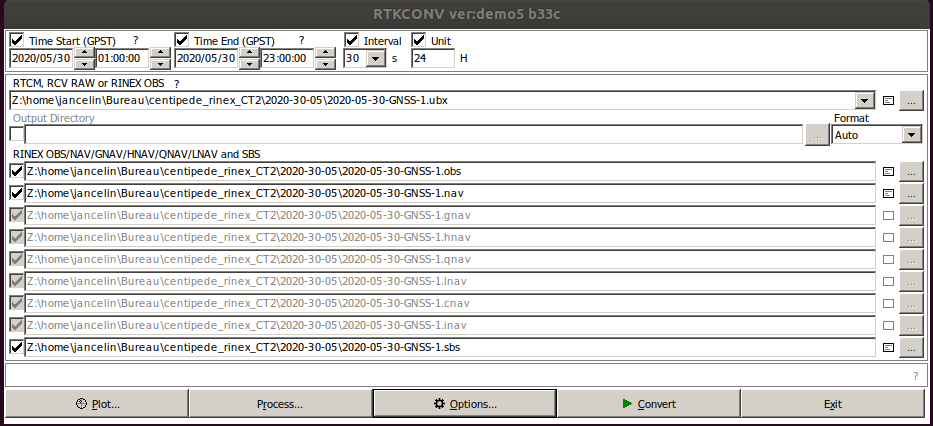
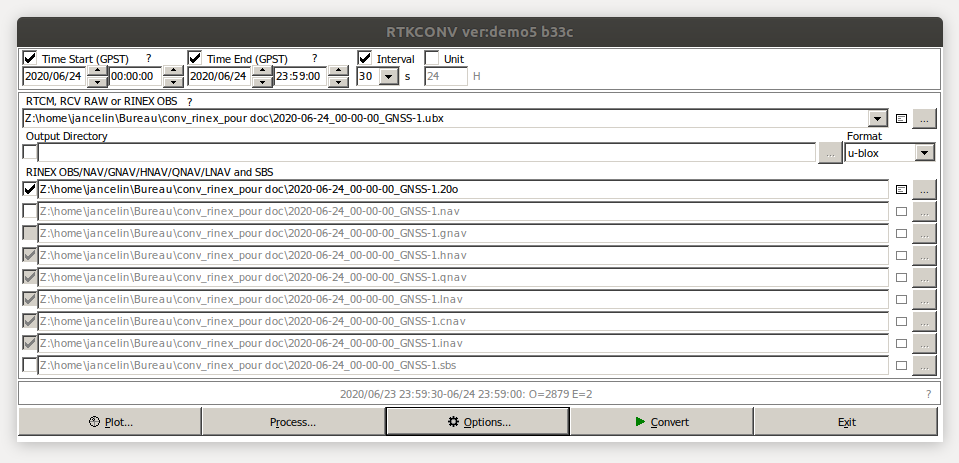
passage calcul positionnement IGN

diff --git a/docs/base/positionnement.md b/docs/base/positionnement.md
@@ -9,210 +9,78 @@ nav_order: 4
 
 Nous allons déterminer la position de la base le plus précisément possible.
 
-La procédure pour calculer la position va se décomposer en 5 étapes:
-
-1. [Télécharger les données de votre base RTK](https://jancelin.github.io/docs-centipedeRTK/docs/base/positionnement.html#1-t%C3%A9l%C3%A9charger-les-donn%C3%A9es-de-votre-base-rtk)
-2. [Télécharger les données de référence de la station du RGP la plus proche de sa base](https://jancelin.github.io/docs-centipedeRTK/docs/base/positionnement.html#2-t%C3%A9l%C3%A9charger-les-donn%C3%A9es-du-rgp)
-3. [Dézipper un .zip des logs de votre base  et le  convertir le .ubx en RINEX avec ```rtkconv```](https://jancelin.github.io/docs-centipedeRTK/docs/base/positionnement.html#3-convertir-le-fichier-ubx-en-rinex)
-4. [Utiliser ```rtkpost``` (comparaison du RINEX RGP et de son RINEX) pour récupérer un nuage de points corrigés  (.pos) en sortie](https://jancelin.github.io/docs-centipedeRTK/docs/base/positionnement.html#4-post-traitement-fabrication-du-fichier-pos)
-5. [Utiliser ```Qgis``` pour  filtrer les données du .pos les plus stables et calculer la mediane des points restants afin de déterminer la position précise de la base RTK](https://jancelin.github.io/docs-centipedeRTK/docs/base/positionnement.html#5-filtrer-les-donn%C3%A9es-et-calculer-la-position-mediane)
-
 Votre base va servir de référentiel pour vous mais aussi pour toute personne se trouvant dans sa zone d'action. Il est primordial que sa position soit juste et très précise afin de pourvoir tous travailler sur un même référentiel géographique.
-
-Il est conseillé de refaire ce calcul sur plusieurs jour afin de vérifier que la position est bien bonne.
-
-Il est également indispensable de refaire ce calcul tout les 6 mois afin de vérifier la position de la base.
 
 ### 1. Télécharger les données de votre base RTK
 
-* Se rendre dans l'onglet **logs** de votre base RTK et télécharger le dernier .zip
+* Créer un dossier **RINEX** sur votre PC 
+* Se rendre dans l'onglet **logs** de votre base RTK et télécharger le dernier **.zip**
+* Décompresser le **.zip** dans le dossier **RINEX**
+* C'est le fichier **AAAA-MM-JJ_00-00-00_GNSS-1.ubx** (environ 400 Mo) qui va nous servir pour le calcul de la position
 
-### 2. Télécharger les données du RGP
-
-* Aller sur le [site IGN](http://rgp.ign.fr/DONNEES/diffusion){:target="_blank"}
-* Zoomer large sur votre zone (50km)
-* Sélectionner TU (Temps Universel)
-* Changer la date de début et de fin en fonction du nom de votre fichier téléchargé précédemment, et changer l'heure ```0 à 24h```
-* Sélectionner GLONASS en plus de GPS (+ GALILEO si la base concernée le propose). Si un système sélectionné (ex : GALILEO) n'est pas disponible sur la base concernée, celle-ci disparaît de l'interface cartographique et n'est donc plus sélectionnable. Dans ce cas, décocher le système de positionnement.
-* Échantillonnage : 5 sec.
-* Version Rinex : 2.11
-* Il faut ensuite sélectionner la base souhaitée sur la carte à l'aide de l'outil de sélection puis l'ajouter au panier.
-* Télécharger l'archive au format ZIP une fois celle-ci disponible.
-
-![ign](https://jancelin.github.io/docs-centipedeRTK/assets/images/positionnement/ign.png)
-
-Vous pouvez ne récupérer que le **XXXXX.20o**
-
-> ex:**lroc3440.20o**
-
-> [Pour en savoir plus sur les formats UBX et Rinex](https://en.wikipedia.org/wiki/RINEX){:target="_blank"}
-
-### Conversion RINEX et Calcul de la correction
+### 2. Convertir le fichier .ubx en RINEX
 
 Télécharger cette version d'RTKLIB fournie par rtkexplorer: [RTKLIB Code: Windows executables](http://rtkexplorer.com/downloads/rtklib-code/){:target="_blank"}
 
-### 3. Convertir le fichier .ubx en RINEX
-
-
-* Créer un dossier et décompresser le .zip téléchargé dans votre base RTK.
 * Lancer ```rtkconv.exe```
 * Cocher Time start
-	* Renseigner la même date que le .zip
-	* changer le temps en **00:01:00**
+	* Renseigner la même date, au format AAAA/MM/JJ, que le fichier **AAAA-MM-JJ_00-00-00_GNSS-1.ubx**
+	* changer le temps en **00:00:00**
 * Cocher Time end
-	* Renseigner la même date que le .zip
+	* Renseigner la même date, au format AAAA/MM/JJ, que le fichier **AAAA-MM-JJ_00-00-00_GNSS-1.ubx**
 	* changer le temps en **23:59:00**
-* Cocher Interval: **5s**
-* Cocher Unit: **24h**
+* Cocher Interval: **30s**
 * Selectionner votre fichier **.ubx** issue de votre **.zip** dans **RTCM, RCV RAW or RINEX OBS**
-	* le logiciel va ecrire le chemin une serie de fichier (.obs, .nav,...) dans ce même dossier
-![ign](https://jancelin.github.io/docs-centipedeRTK/assets/images/positionnement/rinex1.png)
+* laisser cocher seulement la première ligne: AAAA-MM-JJ_00-00-00_GNSS-1**.obs**
+* Modifier l'extension du fichier en **.20o** (AAAA-MM-JJ_00-00-00_GNSS-1**.obs** > AAAA-MM-JJ_00-00-00_GNSS-1**.20o**)
+
+![rinex](https://jancelin.github.io/docs-centipedeRTK/assets/images/positionnement/rinex1.png)
+
 * Cliquer sur **Options**
 	* Choisir **Rinex ver 2.11**
-	* Cocher **Scan Obs Types**, **Half Cyc Corr**, **Iono Corr**, **Time Corr**, **Leap Sec**
-	* Cocher **GPS**, **GLO**, **GAL**, **BDS**
+	* Dans **Marker Name** rajouter le Nom (Mount Point) de votre Base RTK
+	* Cocher **GPS**
 	* Cocher toutes les **Observations types**
 	* Cocher **L1**, **L2/E5b**
-![ign](https://jancelin.github.io/docs-centipedeRTK/assets/images/positionnement/rinex2.png)
+	* Dans **Receiver Options** rajouter ```-TADJ=1```
+	* En option, si vous avez le modèle IGS de votre antenne et les informations de qualibrations il est fortement conseillé de les rajouter.
+
+![rinex](https://jancelin.github.io/docs-centipedeRTK/assets/images/positionnement/rinex2.png)
+
 * Cliquer sur **OK**
 * Cliquer su **Convert**
 
-Votre fichier va être convertis en fichiers RINEX
+Votre fichier **.ubx** va être convertis en fichiers RINEX
     
-### 4. Post traitement: fabrication du fichier .pos
+### 3. Post traitement IGN
 
-Cette étape permet de corriger les données brutes de votre base avec le référentiel du RGP afin d'obtenir un nuage de point (.pos) corrigé.
+Cette étape permet de corriger les données brutes de votre base RTK avec les stations de référence du [Réseau Géodésique Permanent](http://rgp.ign.fr/) afin d'obtenir une position corrigée.
 
-Deux méthodes sont proposées:
+* se rendre sur le site [calculs GNSS Réseau en ligne](http://rgp.ign.fr/SERVICES/calcul_online.php)
+* Importer votre fichier **AAAA-MM-JJ_00-00-00_GNSS-1.20o** dans **Pivot**
+* Garder les paramètres par défaut ( nombre maximum 8 et eloignement maximum 1000 km)
+* Renseigner son adresse mail pour recevoir le rapport
+* Actualiser le code avec les flêches bleu et Entrez les 4 lettres.
+* Cliquer sur envoyer la demande
 
-* La première avec les fichiers récupérés 24 h après la collecte des données (positionnement précis).
+Le rapport de positionnement est transmit après quelques minutes.
 
-* La deuxième avec ces mêmes fichiers + les fichiers de l'IGS récupérés 20 jours après la collecte des données donc un positionnement très précis (Solution combinée finale GNSS pour la solution orbitale combinée du système d'information sur la dynamique de la croûte terrestre (CDDIS)). 
+![ign](https://jancelin.github.io/docs-centipedeRTK/assets/images/positionnement/ign_reseau_en_ligne.png)
 
-####  Méthode à 24h
 
-```
-rtkpost.exe
-```
+### 4. Interprétation du rapport 
 
-* Renseigner le **Time Start** et le **Time End** : la date de votre fichier RINEX + l'heure de début **```00:01:00```**, pareil pour le end date + **```23:59:00```**. Cocher **Interval** et renseigner **5s**. **Unit** reste decoché
-* Charger le fichier *.obs* de votre base (Rover)s
-* Charger le fichier *.20o* de la base de référence IGN (Base Station)
-* Charger les fichiers *.nav* de votre base
-* Le fichier résultat aura une extension *.pos* c'est lui qui par traitement statistique donnera la position de la base RTK.
-* Cliquer sur __options__
-  - __Setting1__
-       - *Positionning Mode* : Static 
-       - *Fréquencies* : L1 + L2 
-       - *Elevation mask* : 15° par défaut
-       - *Ionosphere correction* : Broadcast  
-            > Correction de l'effet de l'ionosphère. Il est conseillé d'utiliser le mode Broadcast (modèle utilisé en temps réel et disponible dans le fichier de navigation) ou Dual-Frequancy (si des mesures ou plusieurs fréquences sont disponibles).
-            > Source : IGN cf. http://cours-fad-public.ensg.eu/mod/imscp/view.php?id=450 (Analyse GNSS sous RTKLIB, Fenêtre options)
-       - *Troposphere correction* : Saastamoinen 
-            > Correction de l'effet de la troposphère. Il est conseillé d'utiliser le mode Saastamoinen en positionnement utilisant des mesures de code ou en positionnement relatif avec de courtes lignes de base et de faibles dénivelés ; dans le cas contraire, on peut utiliser les modes Estimate ZTD ou Estimate ZTD+Grad (estimation de paramètres troposphériques).
-            > Source : IGN cf. http://cours-fad-public.ensg.eu/mod/imscp/view.php?id=450 (Analyse GNSS sous RTKLIB, Fenêtre options)
-       - Cocher Galileo si votre fichier RGP en contient, sinon cocher juste GPS et GLONASS.
-       - Pour les autres options, laisser les valeurs par défaut 
-  - __Setting2__
-       - *Integer Ambiguity Res* : Fix and Hold
-            > Stratégie de résolution des ambiguïtés. Les stratégies Continuous et Fix ans Hold sont les plus concluantes.
-            > Source : IGN cf. http://cours-fad-public.ensg.eu/mod/imscp/view.php?id=450 (Analyse GNSS sous RTKLIB, Fenêtre options)
-            >
-            > (cf. aussi RTKLIB explorer qui privilégie le Continuous https://rtklibexplorer.wordpress.com/2016/04/05/rtklib-thoughts-on-fix-and-hold/
-            >   https://rtklibexplorer.wordpress.com/2016/05/02/another-kayak-data-set-fix-and-hold-fails-again/   http://rtkexplorer.com/improving-rtklib-solution-ar-lock-count-and-elevation-mask/ ) 
-       - Toutes les autres options doivent rester par défaut
-  - __Output__ : laisser les valeurs par défaut 
-  - __Statistics__ : laisser les valeurs par défaut 
-  - __Positions__ 
-       - Changer la valeur de *Base station* : Rinex Header Position 
-  - __Files__ : laisser les valeurs par défaut 
-  - __Misc__ : laisser les valeurs par défaut
- 
-> Penser à sauvegarder tous ces paramétrages dans un fichier .conf (option Save)
+* Le rapport (xxxxxx.tar.gz) est à décompresser dans dans votre répertoire RINEX, il sera également necesssaire de le fournir au moment de la déclaration de votre base sur le réseau Centipede.
+* Le rapport contient 3 documents:
+	* une aide (readme.txt) vous expliquant la structure du rapport.
+	* une carte au format pdf permettant de visualiser la repartition des stations de reference ainsi que les residus de la mise en reference
+	* le rapport de calcul au format texte 
+* Le rapport est composé de plusieurs parties, la position de votre base se situe à la fin du document dans la zone **====== RGF93 ======**
+* Il est important de regarder la partie **EXACTITUDE ESTIMEE (2*SIGMA)** car elle va vous donner la qualité du calcul, normalement vous ne devez avaoir que quelques mm en E_N, E_E et environ le double en E_H.
+* Noter les coordonnées de votre base dans cet ordre **Latitude Longitude Hell** afin de les copier dans votre base RTK
 
-#### Méthode après 20 jours
+![ign](https://jancelin.github.io/docs-centipedeRTK/assets/images/positionnement/rapport_ign.png)
 
-* Récupérer la date GPS de la collecte de données: http://navigationservices.agi.com/GNSSWeb/
-> par exemple le 5 février 2019 correspond au 2039:2
-* se rendre sur le site ftp://cddis.nasa.gov/gnss/products/
-* chercher le dossier correspondant à la date GPS et l'ouvrir
-> dans notre exemple 2039
-* Chercher le Fichier :igs"dategps+jour".sp3.Z , télécharger le et décompressez-le
-> dans l'exemple: Fichier :igs20392.sp3.Z > igs20392.sp3
-* Ouvrir RTKPOST
-```
-./RTKPOST_Qt-x86_64.exe
-```
-## Positionnement
 
-* Charger le fichier *.obs* de la base à corriger (Rover)
-* Charger le fichier *.19o* de la base de référence (Base Station)
-* Charger les fichiers *.nav*, *.hnav*, *.gnav*, *igs20392.sp3* de la base à corriger
-* Renseigner le *Time Start* et le *Time End* (la plage horaire de notre période de logging).
-* Reprendre la procédure décrite précédemment (2.1 __Méthode à 24h__) au niveau de * Cliquer sur __options__
-
-  
-### RTKPLOT
-
- 
- Pour cartographier le nuage de points obtenu précédemment (fichier avec extension pos) vous pouvez cliquer sur l'onglet en as à gauche **```Plot```**
- 
- Il est possible à ce stade-là de filtrer les données afin de ne conserver que les points pour lesquels la valeur de Q est égale à 1 (ie. mode FIX).
-
- Dans l'exemple ci dessous vous pouvez observer un maillage au mm avec **16527 points situés dans 1,5 cm2**. C'est bien mais nous allons maintenant nettoyer ce nuage de point pour ne garder que les meilleures données et calculer la médiane. Le résultat nous donnera la position définitive de la base. 
- 
-![rtkplot](https://jancelin.github.io/docs-centipedeRTK/assets/images/positionnement/rtkplot.png)
- 
-## 5. Filtrer les données et calculer la position mediane.
- 
- Le fichier résultat peut être exploité dans QGIS3 pour filtrer les meilleurs données et calculer la position mediane.
- 
- > Plus d'informations sur l'installation de ce logiciel sur cette [page](https://qgis.org/fr/site/){:target="_blank"}
-
-### Importer le fichier .pos dans Qgis
- 
-* Cliquer sur *couche* > *Ajouter une couche* > *Ajouter une couche de texte délimité*
-* Choisir le fichier .pos puis cliquer sur *Ouvrir*
-        
-![qgis](https://jancelin.github.io/docs-centipedeRTK/assets/images/positionnement/calc_base_qgis_1.png)   
-
-* Dans *Format de fichier*, sélectionner le délimiteur personnalisé *Espace*
-* Fixer la valeur du *Nombre de lignes à ignorer* à 26 ou 27 (en fonction du fichier .pos généré)
-* Cocher "Ignorer les champs vides"
-* Cocher l'option "Entêtes en 1ere ligne", "Détecter les types de champs" et "Ignorer les champs vides"
-* Définition de la géométrie: cocher "Point"
-* Sélectionner le SRC 4326 (WGS 84)
-* Cliquer sur *OK*
-   
-![qgis](https://jancelin.github.io/docs-centipedeRTK/assets/images/positionnement/calc_base_qgis_2.png)
-
-### Filtrer les données .pos
-
-On retrouve ici les points affichés dans RTKPLOT, appliquons maintenant des filtres pour ne garder que les meilleures valeurs.
-
-* Faire un clic droit sur la couche puis *Filtrer...*
-* Ajouter le filtre suivant :
-
-```
-"Q"=1 AND
-"ratio" >= 50 AND
-"sdn(m)" <= 0.0002 AND
-"sde(m)" <= 0.0002 AND
-"sdu(m)" <= 0.0003
-  ```
-* Cliquer sur *OK*
-   
-![qgis](https://jancelin.github.io/docs-centipedeRTK/assets/images/positionnement/calc_base_qgis_3.png)
-
-### Statistiques sur les données filtrés
-
-* Cliquer sur *vecteur* > *Outils d'analyse* > *Statistiques basiques pour les champs*
-   * **Couche vectorielle en entrée** : choisir le fichier pos
-   * **Champ pour le calcul des statistiques** : latitude
-   * Cliquer sur **Exécuter**
-   * Récupérer la valeur **MEDIAN** ex: 46.164793681
-* Répéter l'opération avec les champs longitude et hauteur.
-* Voici un exemple de coordonnées récupérées **```46.164793681 -0.948418958 63.0686```**, ceci est la position précise de votre base RTK
-
-* Passons à la finalisation du Paramétrage du positionnement  de votre Base RTK
+* Passons à la finalisation du Paramétrage du positionnement de votre Base RTK
 
